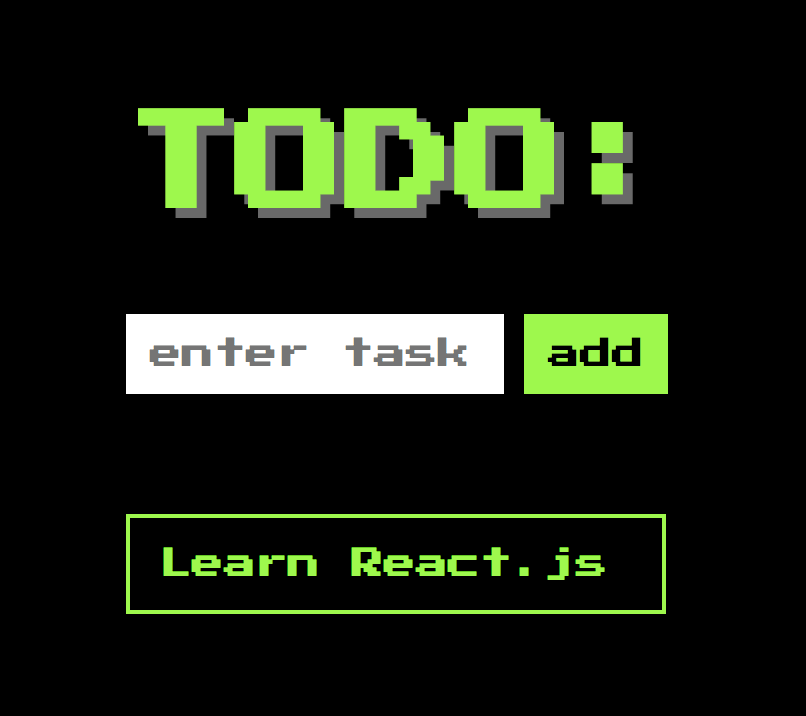
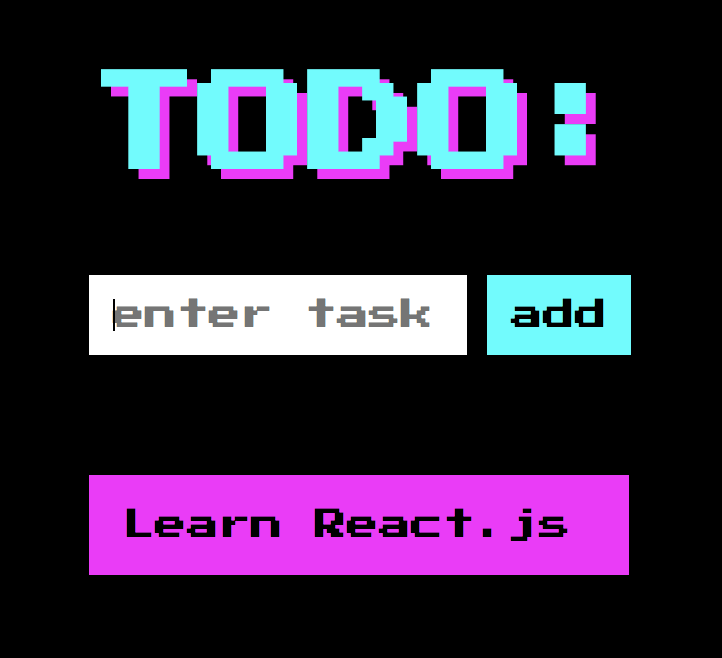
Styling tweaks and that

Changed region(s): [[0.1219, 0.6991, 0.8837, 0.8815], [0.1219, 0.0912, 0.8227, 0.304], [0.1219, 0.3951, 0.8837, 0.5775]]

diff --git a/src/TodoList.css b/src/TodoList.css
@@ -10,9 +10,9 @@
 .todoListMain .header button {
   padding: 10px;
   font-size: 16px;
-  background-color: lawngreen;
+  background-color: aqua;
   color: black;
-  border: 2px solid lawngreen;
+  border: 2px solid aqua;
   border-radius: 0;
 }
 button {
@@ -21,8 +21,8 @@ button {
 }
 .todoListMain .header button:hover {
   background-color: black;
-  border: 2px solid lawngreen;
-  color: lawngreen;
+  border: 2px solid fuchsia;
+  color: fuchsia;
   cursor: pointer;
 }
 .todoListMain .theList {
@@ -31,9 +31,9 @@ button {
   width: 270px;
 }
 .todoListMain .theList li {
-  color: lawngreen;
+  color: aqua;
   background-color: black;
-  border: 2px solid lawngreen;
+  border: 2px solid aqua;
   padding: 15px;
   margin-bottom: 5px;
 }
@@ -53,7 +53,8 @@ li {
   margin-bottom: 10px;
 }
 .todoListMain .theList li:hover {
-  background-color: lawngreen;
+  background-color: fuchsia;
+  border-color: fuchsia;
   color: black;
   cursor: pointer;
 }
@@ -61,7 +62,7 @@ button:focus, input:focus {
   outline:0;
 }
 h1 {
-  color: lawngreen;
+  color: aqua;
   font-size: 55px;
-  text-shadow: 5px 5px dimgray;
+  text-shadow: 5px 5px fuchsia;
 }

diff --git a/README.md b/README.md
@@ -25,7 +25,7 @@ Relearning some React because why not.
 # TODOs:
 
 They look like this:
-![todo](link)
+![todo](https://github.com/wemmm/react-todo/blob/master/todo.png)
 
 
 a e s t h e t i c
